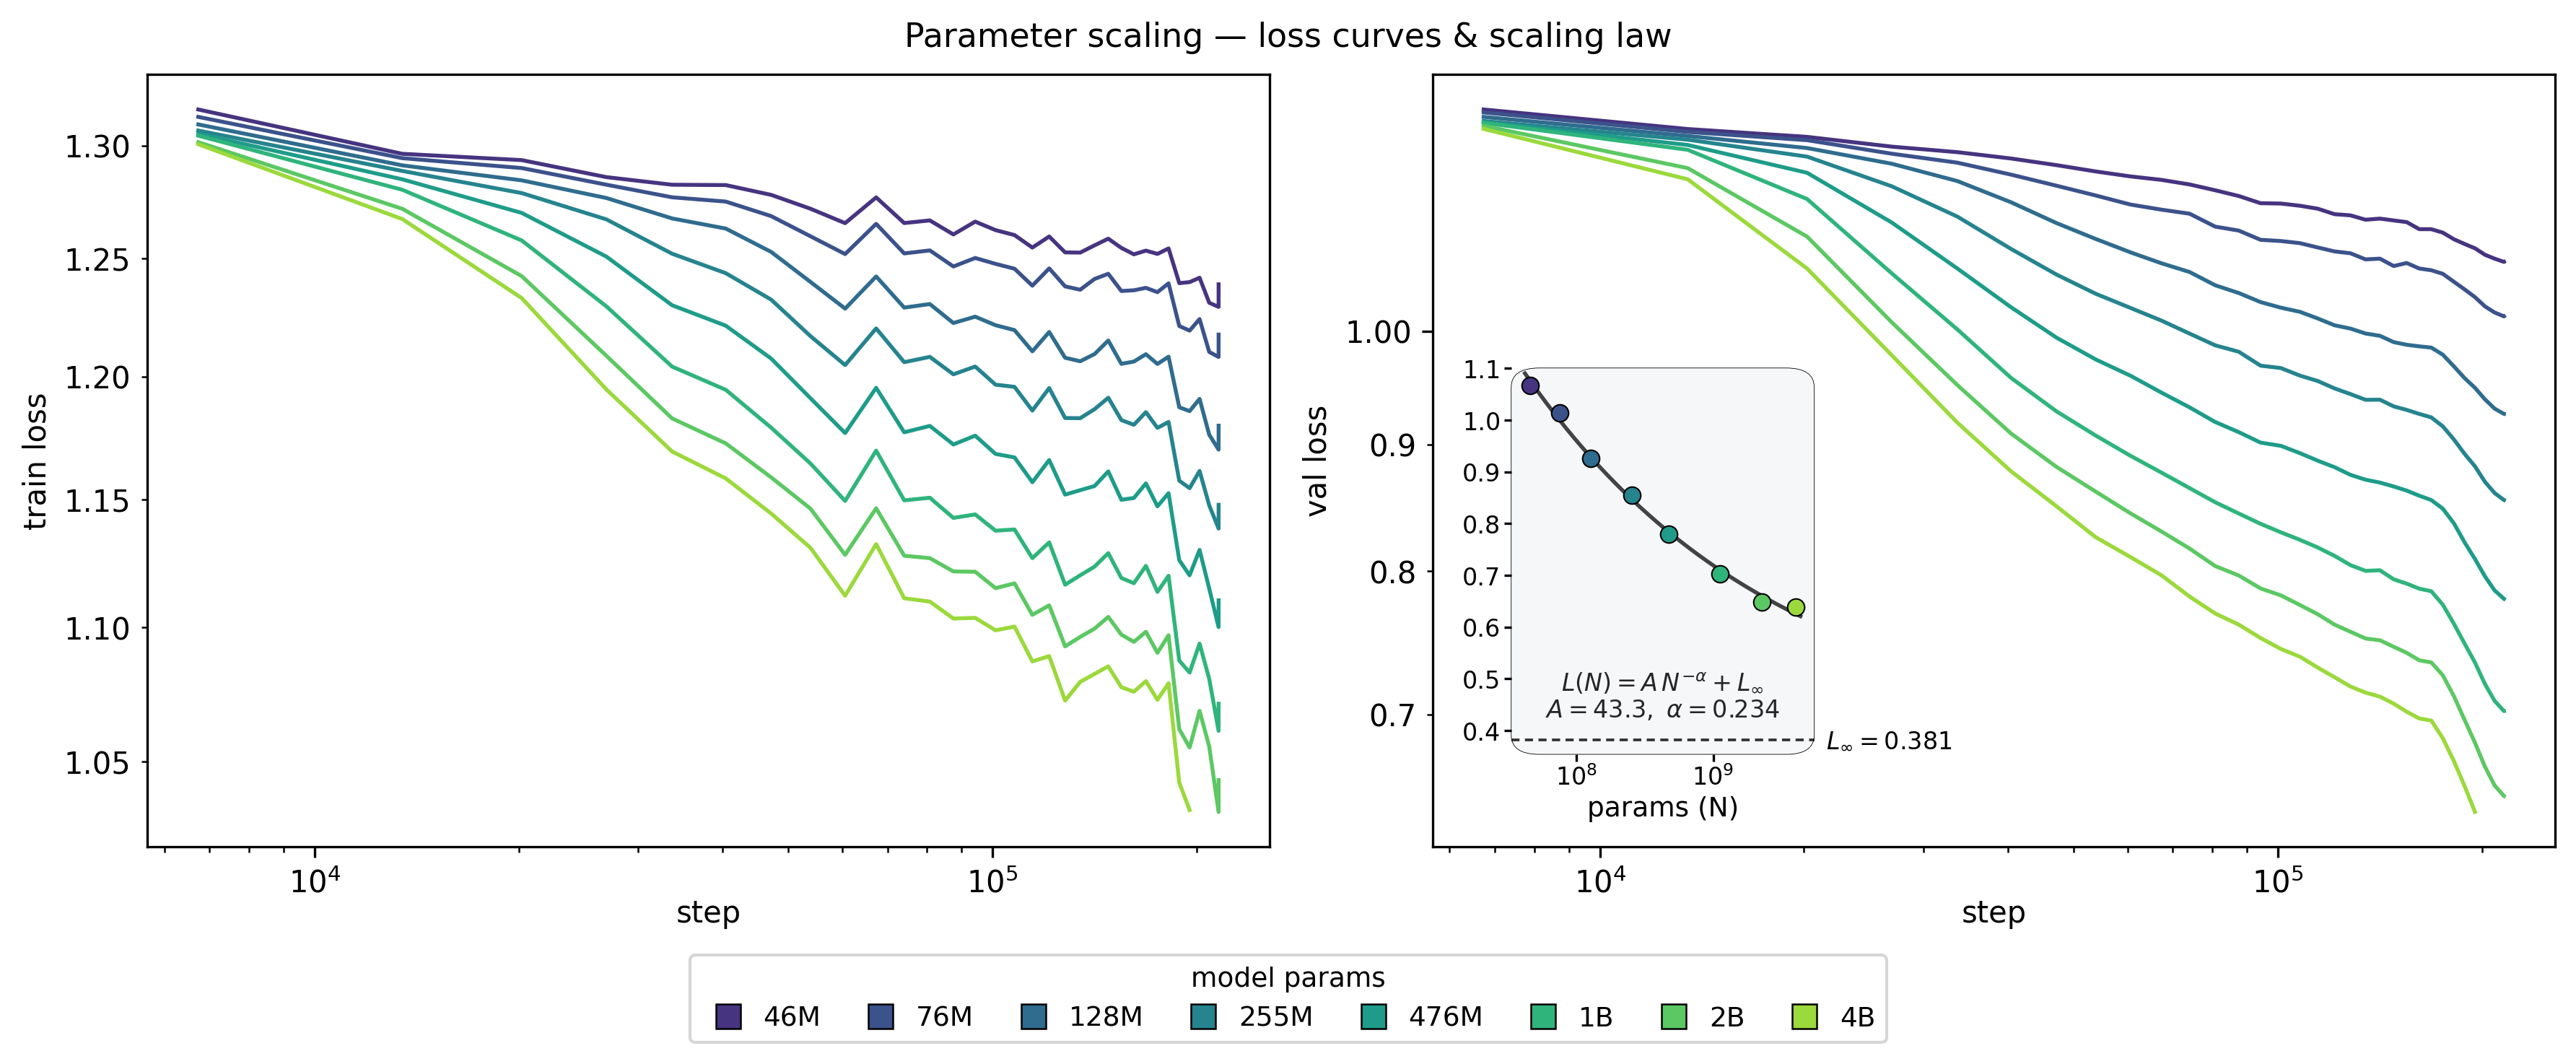
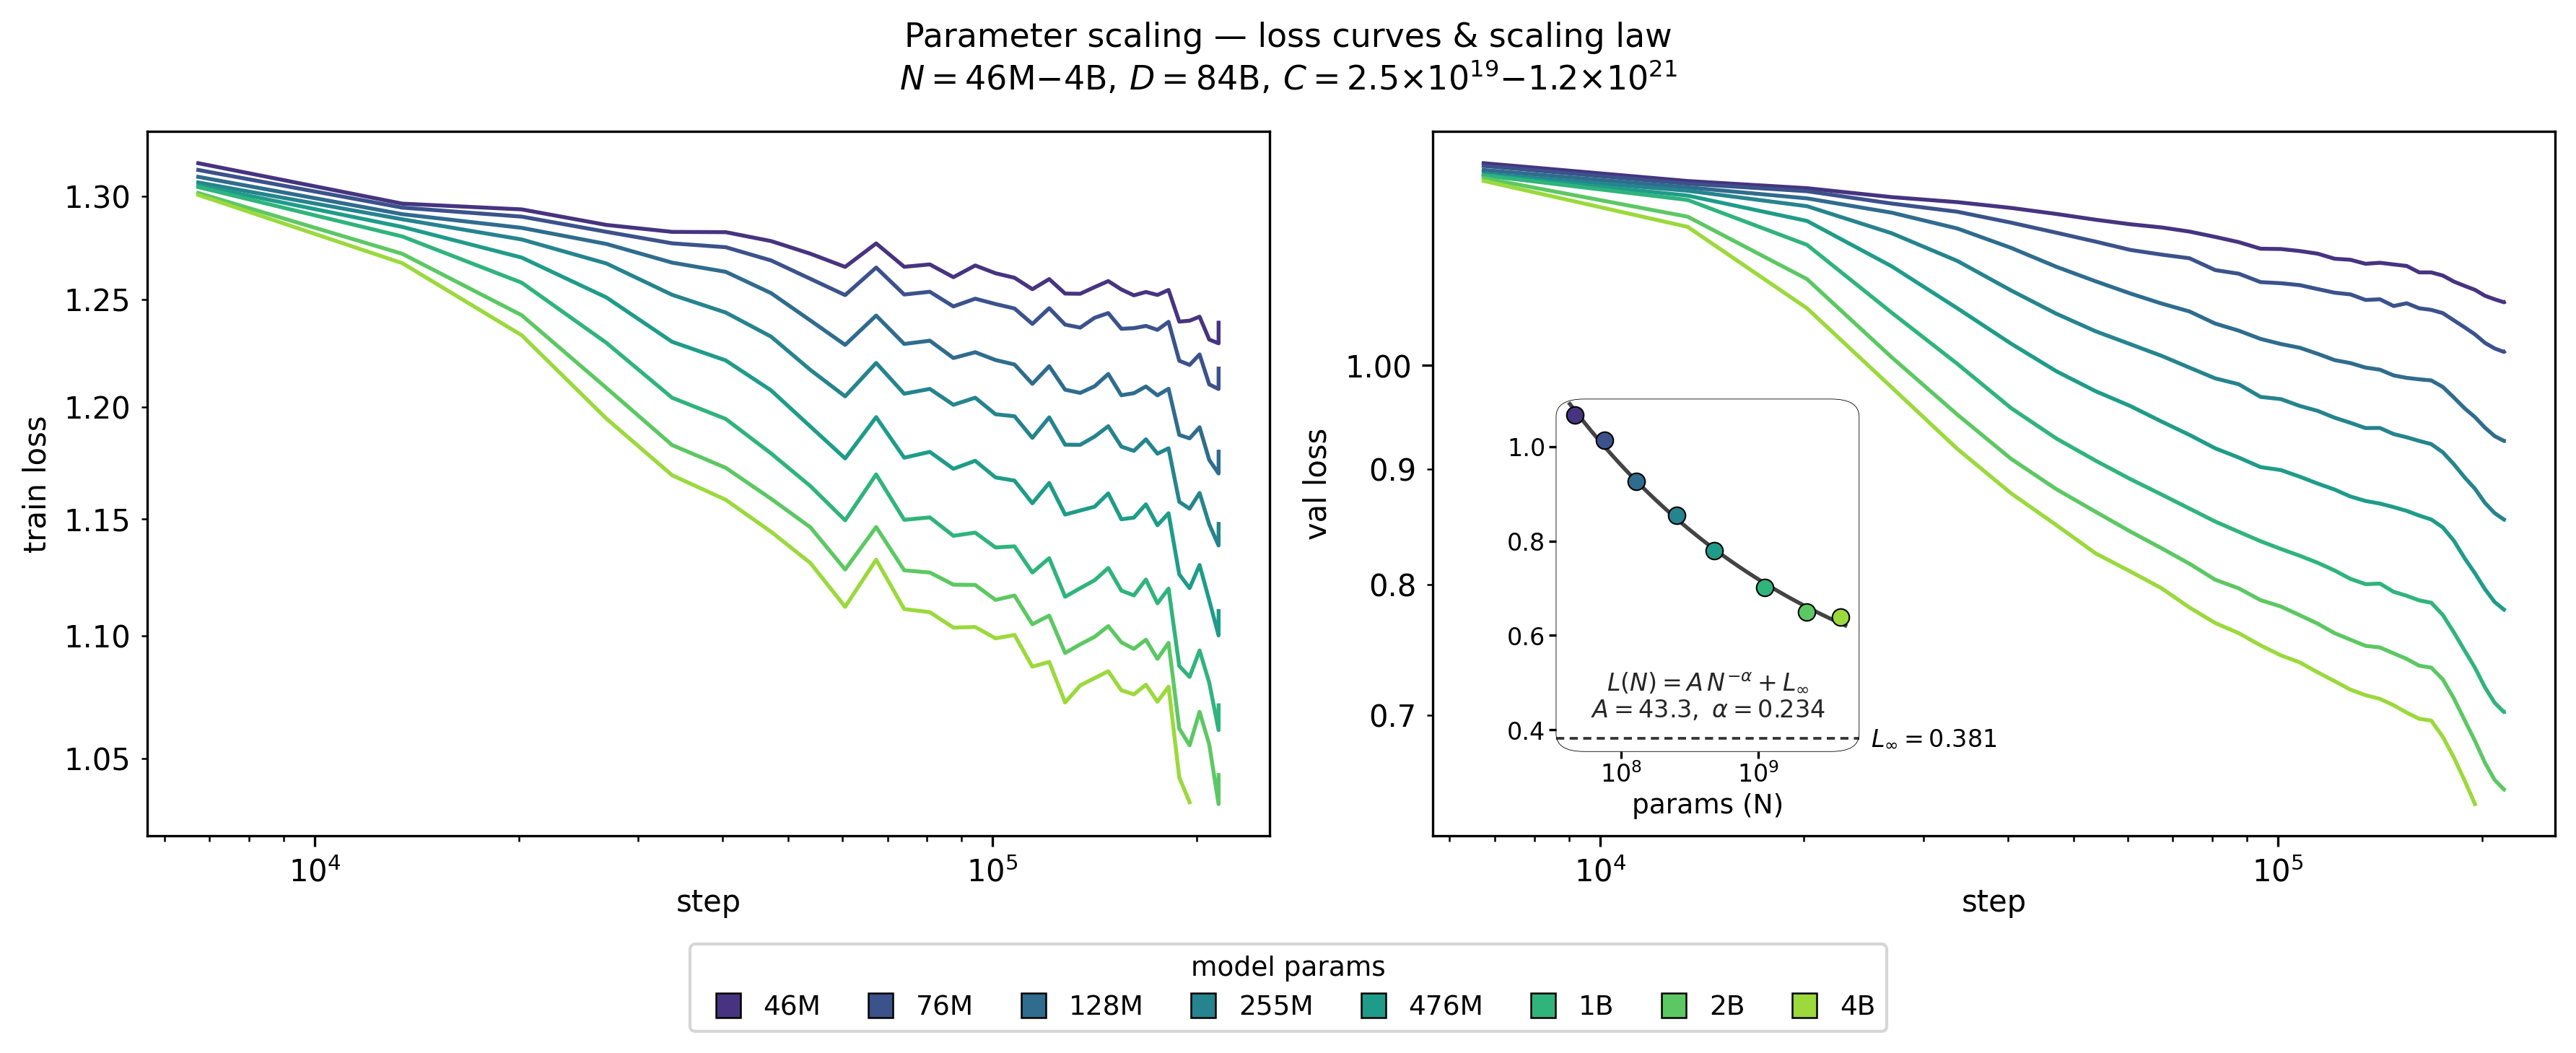
Add (N, D, C) subtitles to Figures 1 and 3
Figure 1 carries a one-line summary contrasting the reference Vizier
sweep with the transfer-validation sweep across the three scales. Figure
3 carries the analogous summary for the parameter-scaling sweep.
Numbers are taken verbatim from outline.md (### Sweeps and the per-
model FLOPs tables); never derived via 6ND.

Also tightens the inset placement on Figure 3 (white background, nudged
right) and pulls the title closer to the panels.

diff --git a/src/figures.py b/src/figures.py
@@ -44,6 +44,25 @@ _X_LABEL_PAD = 0
 
 CONTROL_ROLES = ("positive-control", "negative-control")
 
+# Compact (N, D, C) summary contrasting the small-scale reference Vizier sweep
+# with the larger transfer-validation sweep depicted in Figures 1 & 2.
+# Numbers come from docs/outline.md (`### Sweeps` + `#### Transfer validation
+# sweep`); validation N and C are shown as ranges across the three scales.
+_TRANSFER_SUBTITLE = (
+    r"$N{=}25\mathrm{M},\,D{=}2.5\mathrm{B},\,C{=}4{\times}10^{17}$"
+    r"$\,\rightarrow\,$"
+    r"$N{=}255\mathrm{M}{-}1\mathrm{B},\,D{=}10\mathrm{B},\,C{=}1.6{-}6.8{\times}10^{19}$"
+)
+
+# Scaling-sweep summary: N, D, C ranges across all 8 models. N spans the full
+# planned range (46M–4B); D is one epoch over the training mixture (~84B
+# tokens); C range is taken from `#### Parameter scaling sweep` in outline.md
+# (smallest completed = 46M, largest completed = 2B; 4B is still in flight).
+_SCALING_SUBTITLE = (
+    r"$N{=}46\mathrm{M}{-}4\mathrm{B},\,D{=}84\mathrm{B},\,"
+    r"C{=}2.5{\times}10^{19}{-}1.2{\times}10^{21}$"
+)
+
 
 def _params_label(num_params: int | float) -> str:
     n = int(num_params)
@@ -271,7 +290,7 @@ def figure1_lr(df: pd.DataFrame, palette: dict, params: list[int]) -> None:
         value_formatter=_fmt_lr,
         palette=palette,
     )
-    ax.set_title("Transfer validation — loss vs learning rate")
+    ax.set_title("Transfer validation — loss vs learning rate\n" + _TRANSFER_SUBTITLE, fontsize=11)
     # Reserve room for the legends below.
     fig.tight_layout(rect=(0, 0.08, 1, 1))
     _attach_legends_below(fig, palette, params)
@@ -572,8 +591,11 @@ def figure3_loss_scaling(history: pd.DataFrame, results: pd.DataFrame, palette: 
     # Sits in the bottom-left empty region (low-step / low-loss has no curve data there).
     _attach_kaplan_inset(axes[1], results, palette)
 
-    fig.suptitle("Parameter scaling — loss curves & scaling law", fontsize=11, y=0.95)
-    fig.tight_layout(rect=(0, 0.08, 1, 0.99))
+    fig.suptitle(
+        "Parameter scaling — loss curves & scaling law\n" + _SCALING_SUBTITLE,
+        fontsize=11, y=0.94,
+    )
+    fig.tight_layout(rect=(0, 0.08, 1, 0.97))
 
     params_present = sorted({int(p) for p in history["params"].dropna().unique()})
     _attach_params_legend_below(fig, palette, params_present, width_scale=0.55)
@@ -593,7 +615,7 @@ def _attach_kaplan_inset(parent_ax, results: pd.DataFrame, palette: dict) -> Non
 
     # zorder=0 puts the inset under parent's eval-loss lines (which use zorder=20),
     # so the curves visually cross over the inset like a framed window beneath them.
-    inset_bounds = (0.07, 0.12, 0.27, 0.50)
+    inset_bounds = (0.11, 0.12, 0.27, 0.50)
     inset = parent_ax.inset_axes(list(inset_bounds), zorder=0)
 
     # Replace the default rectangular background/spines with a rounded FancyBboxPatch
@@ -606,7 +628,7 @@ def _attach_kaplan_inset(parent_ax, results: pd.DataFrame, palette: dict) -> Non
         inset_bounds[2], inset_bounds[3],
         boxstyle="round,pad=0,rounding_size=0.025",
         transform=parent_ax.transAxes,
-        facecolor="#f6f7f9",
+        facecolor="white",
         edgecolor="black",
         linewidth=0.2,
         zorder=0,

diff --git a/docs/outline.md b/docs/outline.md
@@ -3,8 +3,13 @@ Subtitle:
 
 ## Intro
 
-- The large majority of 
-
+- The large majority (~80%) of compute resources required to train a modern LLM result from experimentation, not final models [https://arxiv.org/abs/2605.01158]
+- This means that if you want to build a language model, then you are likely to spend most of your time trying to determine:
+  1. The influence of a single design choice in isolation
+  2. How to actually isolate that choice
+  3. Whether or not that choice will scale
+- This experimentation frequently needs to compare results across different parameter, token and/or batch scales
+- Scaling Laws are one obvious example for this kind of experimentation, as discussed in https://9dca63b0.openathena-ai.pages.dev/blog/delphi
 - Scaling laws ideally require training at optimal configurations for all scales 
   - Results can be significantly different otherwise
     - Cite https://arxiv.org/pdf/2406.19146
@@ -33,6 +38,7 @@ consume a massive budget (Porian et al., 2025; Hagele et al., 2024)"
   - What if you have to switch hardware with different HBM capacity?
 - Find and discuss references on confounding in scaling laws from lack of tuning
 - Add token counts to transfer figures to make scale clear
+    - See stats/sweeps below
 - Compare predicted hypers at 1e23 scale to text models at that scale
 - Create a table containing best hypers by FLOP and token count as a guideline for others 
     - Start with this to make it clear that transfer is a function of tokens
@@ -69,6 +75,14 @@ consume a massive budget (Porian et al., 2025; Hagele et al., 2024)"
 | distal                               |    780 |                  78 |    702 |
 | 3_prime_UTR_variant                  |    770 |                  77 |    693 |
 | synonymous_variant                   |    460 |                  46 |    414 |
+
+### Sweeps
+
+- Reference: ~25M params, 2.5B tok, 16k batch, 4E+17 FLOPs
+- Transfer: ~1.1B params, 10B tok, 4k batch, 6.8E+19 FLOPs
+    - vs Reference: 44× params, 4× tokens, 0.25× batch, 170× FLOPs
+- Scaling: ~4B params, 84B tok, 1536 batch, ??? FLOPs
+    - vs Reference: 160× params, 34× tokens, 0.094× batch, ??? FLOPs
 
 ### FLOPs
 